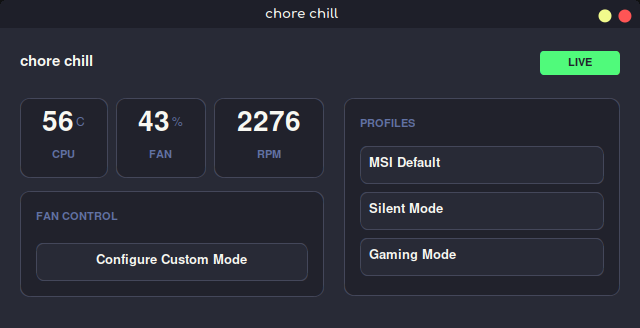
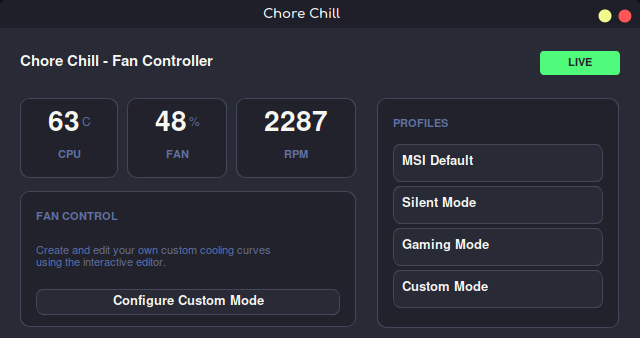
update

diff --git a/frontend/src/gui/frontend.py b/frontend/src/gui/frontend.py
@@ -39,7 +39,7 @@ def _sep(parent):
 class FanControllerUI:
     def __init__(self, root, apply_callback=None, mode_callback=None):
         self.root = root
-        self.root.title("chore chill")
+        self.root.title("Chore Chill")
         self.root.geometry("640x310")
         self.root.resizable(False, False)
         self.root.configure(fg_color=BG)
@@ -77,7 +77,7 @@ class FanControllerUI:
         bar.pack_propagate(False)
 
         ctk.CTkLabel(
-            bar, text="chore chill",
+            bar, text="Chore Chill - Fan Controller",
             font=FONT_TITLE, text_color=TEXT
         ).pack(side="left", pady=12)
 

diff --git a/README.md b/README.md
@@ -153,7 +153,7 @@ For full investigation steps, see [How2Get_Good_Addresses.md](./How2Get_Good_Add
 
 ## Compatibility
 
-> v0 targets the **MSI GF63 Thin** specifically (or machines with the same motherboard).  
+> v1 targets the **MSI GF63 Thin** specifically (or machines with the same motherboard).  
 > EC register layout varies by manufacturer and model.
 
 ---